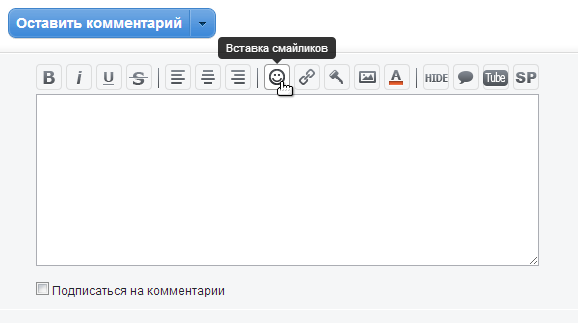
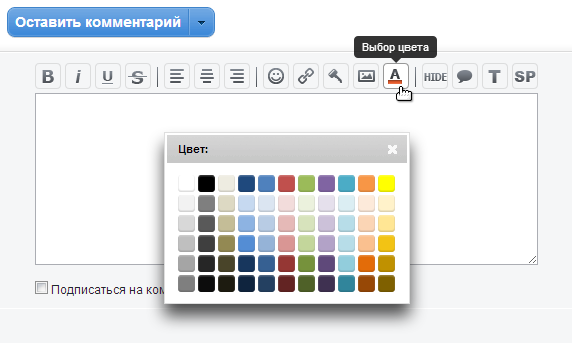
Добавлена новая палитра для выбора цвета текста

Changed region(s): [[0.0, 0.0, 0.951, 0.9598]]

diff --git a/upload/templates/Default/bbcodes/color.html b/upload/templates/Default/bbcodes/color.html
@@ -1,0 +1,124 @@
+<!doctype html>
+<html lang="en">
+<head>
+	<title>Colors</title>
+	<style>
+	* {
+		margin: 0;
+		padding: 0;
+		background: transparent;
+	}
+	body {
+		width: 220px;
+	}
+		span {
+			display: inline-block;
+			float: left;
+			margin:0 3px 3px 0;
+			width: 17px;
+			height: 17px;
+			border-radius: 3px;
+			cursor: pointer;
+			-webkit-box-shadow: inset 0 -1px 2px rgba(0, 0, 0, 0.2), inset 0 1px 2px rgba(255, 255, 255, 0.3);
+			-moz-box-shadow: inset 0 -1px 2px rgba(0, 0, 0, 0.2), inset 0 1px 2px rgba(255, 255, 255, 0.3);
+			box-shadow: inset 0 -1px 2px rgba(0, 0, 0, 0.2), inset 0 1px 2px rgba(255, 255, 255, 0.3);
+		}
+		span:hover {
+			-webkit-box-shadow: inset 0 1px 2px rgba(0, 0, 0, 0.2), inset 0 -1px 2px rgba(255, 255, 255, 0.3);
+			-moz-box-shadow: inset 0 1px 2px rgba(0, 0, 0, 0.2), inset 0 -1px 2px rgba(255, 255, 255, 0.4);
+			box-shadow: inset 0 1px 2px rgba(0, 0, 0, 0.2), inset 0 -1px 2px rgba(255, 255, 255, 0.4);
+		}
+	</style>
+	<script>
+	<!--
+		function selectColor(color) {
+			self.parent.setColor(color);
+		}
+		
+		function InitColorPalette() {
+			if (document.getElementsByTagName)
+				var x = document.getElementsByTagName('SPAN');
+			else if (document.all)
+				var x = document.all.tags('SPAN');
+			for (var i=0;i<x.length;i++) {
+				x[i].onclick = click;
+			}
+		}
+		
+		function click() {
+			selectColor(this.id);
+		}
+	//-->
+	</script>
+</head>
+<body onLoad="InitColorPalette()">
+	<div>
+		<span id="#FFFFFF" style="background: #FFFFFF;"></span>
+		<span id="#000000" style="background: #000000;"></span>
+		<span id="#EEECE1" style="background: #EEECE1;"></span>
+		<span id="#1F497D" style="background: #1F497D;"></span>
+		<span id="#4F81BD" style="background: #4F81BD;"></span>
+		<span id="#C0504D" style="background: #C0504D;"></span>
+		<span id="#9BBB59" style="background: #9BBB59;"></span>
+		<span id="#8064A2" style="background: #8064A2;"></span>
+		<span id="#4BACC6" style="background: #4BACC6;"></span>
+		<span id="#F79646" style="background: #F79646;"></span>
+		<span id="#FFFF00" style="background: #FFFF00;"></span>
+		<span id="#F2F2F2" style="background: #F2F2F2;"></span>
+		<span id="#7F7F7F" style="background: #7F7F7F;"></span>
+		<span id="#DDD9C3" style="background: #DDD9C3;"></span>
+		<span id="#C6D9F0" style="background: #C6D9F0;"></span>
+		<span id="#DBE5F1" style="background: #DBE5F1;"></span>
+		<span id="#F2DCDB" style="background: #F2DCDB;"></span>
+		<span id="#EBF1DD" style="background: #EBF1DD;"></span>
+		<span id="#E5E0EC" style="background: #E5E0EC;"></span>
+		<span id="#DBEEF3" style="background: #DBEEF3;"></span>
+		<span id="#FDEADA" style="background: #FDEADA;"></span>
+		<span id="#FFF2CA" style="background: #FFF2CA;"></span>
+		<span id="#D8D8D8" style="background: #D8D8D8;"></span>
+		<span id="#595959" style="background: #595959;"></span>
+		<span id="#C4BD97" style="background: #C4BD97;"></span>
+		<span id="#8DB3E2" style="background: #8DB3E2;"></span>
+		<span id="#B8CCE4" style="background: #B8CCE4;"></span>
+		<span id="#E5B9B7" style="background: #E5B9B7;"></span>
+		<span id="#D7E3BC" style="background: #D7E3BC;"></span>
+		<span id="#CCC1D9" style="background: #CCC1D9;"></span>
+		<span id="#B7DDE8" style="background: #B7DDE8;"></span>
+		<span id="#FBD5B5" style="background: #FBD5B5;"></span>
+		<span id="#FFE694" style="background: #FFE694;"></span>
+		<span id="#BFBFBF" style="background: #BFBFBF;"></span>
+		<span id="#3F3F3F" style="background: #3F3F3F;"></span>
+		<span id="#938953" style="background: #938953;"></span>
+		<span id="#548DD4" style="background: #548DD4;"></span>
+		<span id="#95B3D7" style="background: #95B3D7;"></span>
+		<span id="#D99694" style="background: #D99694;"></span>
+		<span id="#C3D69B" style="background: #C3D69B;"></span>
+		<span id="#B2A2C7" style="background: #B2A2C7;"></span>
+		<span id="#B7DDE8" style="background: #B7DDE8;"></span>
+		<span id="#FAC08F" style="background: #FAC08F;"></span>
+		<span id="#F2C314" style="background: #F2C314;"></span>
+		<span id="#A5A5A5" style="background: #A5A5A5;"></span>
+		<span id="#262626" style="background: #262626;"></span>
+		<span id="#494429" style="background: #494429;"></span>
+		<span id="#17365D" style="background: #17365D;"></span>
+		<span id="#366092" style="background: #366092;"></span>
+		<span id="#953734" style="background: #953734;"></span>
+		<span id="#76923C" style="background: #76923C;"></span>
+		<span id="#5F497A" style="background: #5F497A;"></span>
+		<span id="#92CDDC" style="background: #92CDDC;"></span>
+		<span id="#E36C09" style="background: #E36C09;"></span>
+		<span id="#C09100" style="background: #C09100;"></span>
+		<span id="#7F7F7F" style="background: #7F7F7F;"></span>
+		<span id="#0C0C0C" style="background: #0C0C0C;"></span>
+		<span id="#1D1B10" style="background: #1D1B10;"></span>
+		<span id="#0F243E" style="background: #0F243E;"></span>
+		<span id="#244061" style="background: #244061;"></span>
+		<span id="#632423" style="background: #632423;"></span>
+		<span id="#4F6128" style="background: #4F6128;"></span>
+		<span id="#3F3151" style="background: #3F3151;"></span>
+		<span id="#31859B" style="background: #31859B;"></span>
+		<span id="#974806" style="background: #974806;"></span>
+		<span id="#7F6000" style="background: #7F6000;"></span>
+	</div>
+</body>
+</html>

diff --git a/upload/templates/Default/style/bbcodes.less b/upload/templates/Default/style/bbcodes.less
@@ -266,3 +266,18 @@
 		height: 150px;
 		padding: 10px;
 		}
+
+/*костыли для палитры редактора bbcode*/
+
+	[aria-labelledby="ui-dialog-title-cp"] {
+	    width: 240px !important;
+	}
+	#cp iframe {
+	    width: 220px !important;
+	    height: 120px;
+	    margin-top: 7px;
+	}
+	#cp br {
+	    display: none;
+	}
+/*костыли для палитры редактора bbcode*/ 

diff --git a/upload/templates/Default/style/bbcodes.css b/upload/templates/Default/style/bbcodes.css
@@ -265,3 +265,16 @@
   height: 150px;
   padding: 10px;
 }
+/*костыли для палитры редактора bbcode*/
+[aria-labelledby="ui-dialog-title-cp"] {
+  width: 240px !important;
+}
+#cp iframe {
+  width: 220px !important;
+  height: 120px;
+  margin-top: 7px;
+}
+#cp br {
+  display: none;
+}
+/*костыли для палитры редактора bbcode*/
